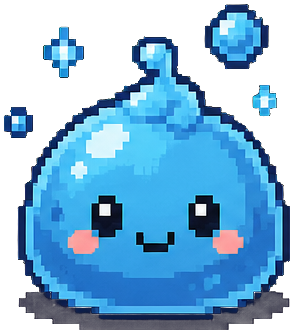
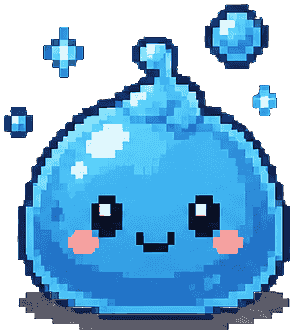
표정 이미지 지원 + 아트 팔레트 압축 (800KB -> 60KB)
- slimeArt.ts: ART_EXPRESSIONS 등록표 + 자동 폴백 (없는 표정은 기본으로)
- SlimeIdle: 보유한 표정만 행동 풀에 자동 합류
- 시트 임포터 추가 (scratchpad/import_slime_sheet.mjs)
  가로 나열 시트를 잘라 바닥-중앙 정렬 + 팔레트 64색 압축
  -> 표정이 바뀌어도 슬라임이 튀지 않음

diff --git a/src/components/SlimeIdle.tsx b/src/components/SlimeIdle.tsx
@@ -1,38 +1,65 @@
 "use client";
 
 import { useEffect, useRef, useState } from "react";
-import { slimeSvg, type SlimeAttr, type SlimeEquip, type SlimeStage } from "@/lib/slimeSprite";
-import { slimeArtSrc, slimeArtWidth, ART_RATIO } from "@/lib/slimeArt";
+import {
+  slimeSvg,
+  type SlimeAttr,
+  type SlimeEquip,
+  type SlimeExpression,
+  type SlimeStage,
+} from "@/lib/slimeSprite";
+import { slimeArtSrc, slimeArtWidth, hasArtExpression, ART_RATIO } from "@/lib/slimeArt";
 
 /**
  * 살아있는 슬라임 — 무대(가로 전체) 위에서 몇 초마다 랜덤 행동을 한다:
- * 통통 뛰어 이동, 기지개, 갸웃, 몸 흔들기. 알은 갸웃거리기만.
+ * 통통 뛰어 이동, 기지개, 갸웃, 몸 흔들기, 그리고 표정 짓기.
  *
- * 몸통이 확정 아트 이미지로 바뀌면서 표정 교체는 빠졌다(이미지 얼굴 고정).
- * 표정을 되살리려면 속성×표정 이미지가 더 필요하다.
+ * 표정은 아트 이미지가 있는 것만 후보에 오른다(ART_EXPRESSIONS). 이미지를
+ * 추가하면 별도 수정 없이 이 풀에 자동으로 합류한다.
  */
 
 type Behavior =
   | { kind: "idle"; ms: number }
   | { kind: "hop"; ms: number; to: number }
-  | { kind: "move"; ms: number; motion: string };
+  | { kind: "move"; ms: number; motion: string }
+  | { kind: "expr"; ms: number; expression: SlimeExpression; motion?: string };
 
 const rand = (min: number, max: number) => min + Math.random() * (max - min);
 
 // 가중치 행동 풀 — 여기만 고치면 성격이 바뀐다.
 // 추후 상태 연동 아이디어: 밀림 있으면 cry↑, 밤 10시 이후 sleep↑, 시험 주간 surprised↑
-const POOL: { w: number; make: () => Behavior }[] = [
+const MOTION_POOL: { w: number; make: () => Behavior }[] = [
   { w: 34, make: () => ({ kind: "hop", ms: 1300, to: 0 }) },
-  { w: 16, make: () => ({ kind: "move", ms: 1500, motion: "slime-stretch" }) },
-  { w: 16, make: () => ({ kind: "move", ms: 2000, motion: "slime-wiggle" }) },
-  { w: 14, make: () => ({ kind: "move", ms: 3000, motion: "slime-sway" }) },
-  { w: 20, make: () => ({ kind: "idle", ms: rand(2200, 4200) }) },
+  { w: 12, make: () => ({ kind: "move", ms: 1500, motion: "slime-stretch" }) },
+  { w: 12, make: () => ({ kind: "move", ms: 2000, motion: "slime-wiggle" }) },
+  { w: 10, make: () => ({ kind: "move", ms: 3000, motion: "slime-sway" }) },
+  { w: 16, make: () => ({ kind: "idle", ms: rand(2200, 4200) }) },
 ];
-const POOL_TOTAL = POOL.reduce((sum, b) => sum + b.w, 0);
 
-function nextBehavior(currentX: number): Behavior {
-  let roll = Math.random() * POOL_TOTAL;
-  for (const entry of POOL) {
+// 표정별 연출 — 아트 이미지가 있는 것만 실제 후보가 된다.
+const EXPR_POOL: { w: number; expression: SlimeExpression; ms: number; motion?: string }[] = [
+  { w: 10, expression: "laugh", ms: 2400 },
+  { w: 8, expression: "yawn", ms: 2800, motion: "slime-stretch" },
+  { w: 5, expression: "cry", ms: 2800 },
+  { w: 12, expression: "sleep", ms: 4200 },
+  { w: 8, expression: "wink", ms: 1600 },
+  { w: 6, expression: "surprised", ms: 1300 },
+  { w: 7, expression: "love", ms: 2600 },
+  { w: 8, expression: "sing", ms: 3000, motion: "slime-sway" },
+];
+
+function buildPool(attr: SlimeAttr) {
+  const pool = [...MOTION_POOL];
+  for (const e of EXPR_POOL) {
+    if (!hasArtExpression(attr, e.expression)) continue;
+    pool.push({ w: e.w, make: () => ({ kind: "expr", ms: e.ms, expression: e.expression, motion: e.motion }) });
+  }
+  return { pool, total: pool.reduce((s, b) => s + b.w, 0) };
+}
+
+function nextBehavior(pool: ReturnType<typeof buildPool>, currentX: number): Behavior {
+  let roll = Math.random() * pool.total;
+  for (const entry of pool.pool) {
     roll -= entry.w;
     if (roll <= 0) {
       const b = entry.make();
@@ -62,22 +89,35 @@ export function SlimeIdle({
 }) {
   const [x, setX] = useState(50);
   const [motion, setMotion] = useState<string | undefined>(undefined);
+  const [expression, setExpression] = useState<SlimeExpression>("normal");
   const xRef = useRef(50);
 
   useEffect(() => {
     let timer: ReturnType<typeof setTimeout>;
     let cancelled = false;
+    const pool = buildPool(attr);
 
     const tick = () => {
       if (cancelled) return;
-      const b = nextBehavior(xRef.current);
+      const b = nextBehavior(pool, xRef.current);
       if (b.kind === "hop") {
         xRef.current = b.to;
         setX(b.to);
         setMotion("slime-hop");
+        setExpression("normal");
         timer = setTimeout(() => {
           setMotion(undefined);
           timer = setTimeout(tick, rand(1200, 2600));
+        }, b.ms);
+        return;
+      }
+      if (b.kind === "expr") {
+        setExpression(b.expression);
+        setMotion(b.motion);
+        timer = setTimeout(() => {
+          setExpression("normal");
+          setMotion(undefined);
+          timer = setTimeout(tick, rand(1000, 2400));
         }, b.ms);
         return;
       }
@@ -98,7 +138,7 @@ export function SlimeIdle({
       cancelled = true;
       clearTimeout(timer);
     };
-  }, []);
+  }, [attr]);
 
   // 알은 이동·표정 없이 제자리 갸웃(렌더러 내장 wobble)만
   if (stage === "egg") {
@@ -124,7 +164,7 @@ export function SlimeIdle({
           {/* eslint-disable-next-line @next/next/no-img-element */}
           <img
             className="slime-art"
-            src={slimeArtSrc(attr)}
+            src={slimeArtSrc(attr, expression)}
             alt="슬라임"
             width={slimeArtWidth(stage, width)}
             height={Math.round(slimeArtWidth(stage, width) / ART_RATIO)}

diff --git a/src/lib/slimeArt.ts b/src/lib/slimeArt.ts
@@ -1,10 +1,13 @@
 // 슬라임 아트 — 원장 확정 디자인(도트 일러스트)을 이미지로 사용한다.
-// 원본 시트에서 잘라낸 투명 PNG가 public/slime/{속성}.png 에 있다.
+// 원본 시트에서 잘라낸 투명 PNG가 public/slime/ 에 있다.
+//   {속성}.png            = 기본 표정
+//   {속성}-{표정}.png     = 추가 표정 (있는 것만)
+// 시트 임포트는 scratchpad/import_slime_sheet.mjs — 바닥·중앙 기준으로 정렬해
+// 저장하므로 표정을 바꿔도 슬라임이 튀지 않는다.
 //
-// 이전의 코드 렌더러(slimeSprite.ts)는 알 단계와 아이템 도트에 계속 쓰이므로
-// 지우지 않는다. 성장 단계는 같은 아트를 배율로 표현한다.
+// 이전의 코드 렌더러(slimeSprite.ts)는 알 단계와 아이템 도트에 계속 쓰이므로 지우지 않는다.
 
-import type { SlimeAttr, SlimeStage } from "./slimeSprite";
+import type { SlimeAttr, SlimeExpression, SlimeStage } from "./slimeSprite";
 
 /** 성장 단계별 표시 배율 — 같은 아트를 크기로 구분한다. */
 const STAGE_SCALE: Record<Exclude<SlimeStage, "egg">, number> = {
@@ -13,11 +16,28 @@ const STAGE_SCALE: Record<Exclude<SlimeStage, "egg">, number> = {
   awake: 1.2,
 };
 
-/** 원본 PNG의 대략적인 가로:세로 비 (잘라낸 결과 기준, 5속성 평균) */
+/** 원본 PNG의 대략적인 가로:세로 비 */
 export const ART_RATIO = 290 / 332;
 
-export function slimeArtSrc(attr: SlimeAttr): string {
-  return `/slime/${attr}.png`;
+/**
+ * 속성별로 실제 파일이 있는 표정만 등록한다.
+ * 표정 이미지를 추가하면 여기에 이름을 넣어야 렌더러가 쓴다.
+ * (없는 표정을 요청하면 기본 표정으로 자동 폴백)
+ */
+export const ART_EXPRESSIONS: Partial<Record<SlimeAttr, SlimeExpression[]>> = {
+  // 예) water: ["laugh", "cry", "sleep"],
+};
+
+export function hasArtExpression(attr: SlimeAttr, expression: SlimeExpression): boolean {
+  if (expression === "normal") return true;
+  return ART_EXPRESSIONS[attr]?.includes(expression) ?? false;
+}
+
+/** 표정 이미지가 없으면 기본 표정으로 폴백한다. */
+export function slimeArtSrc(attr: SlimeAttr, expression: SlimeExpression = "normal"): string {
+  return hasArtExpression(attr, expression) && expression !== "normal"
+    ? `/slime/${attr}-${expression}.png`
+    : `/slime/${attr}.png`;
 }
 
 /** 단계에 맞춘 실제 표시 폭(px). 알은 이 아트를 쓰지 않는다. */
